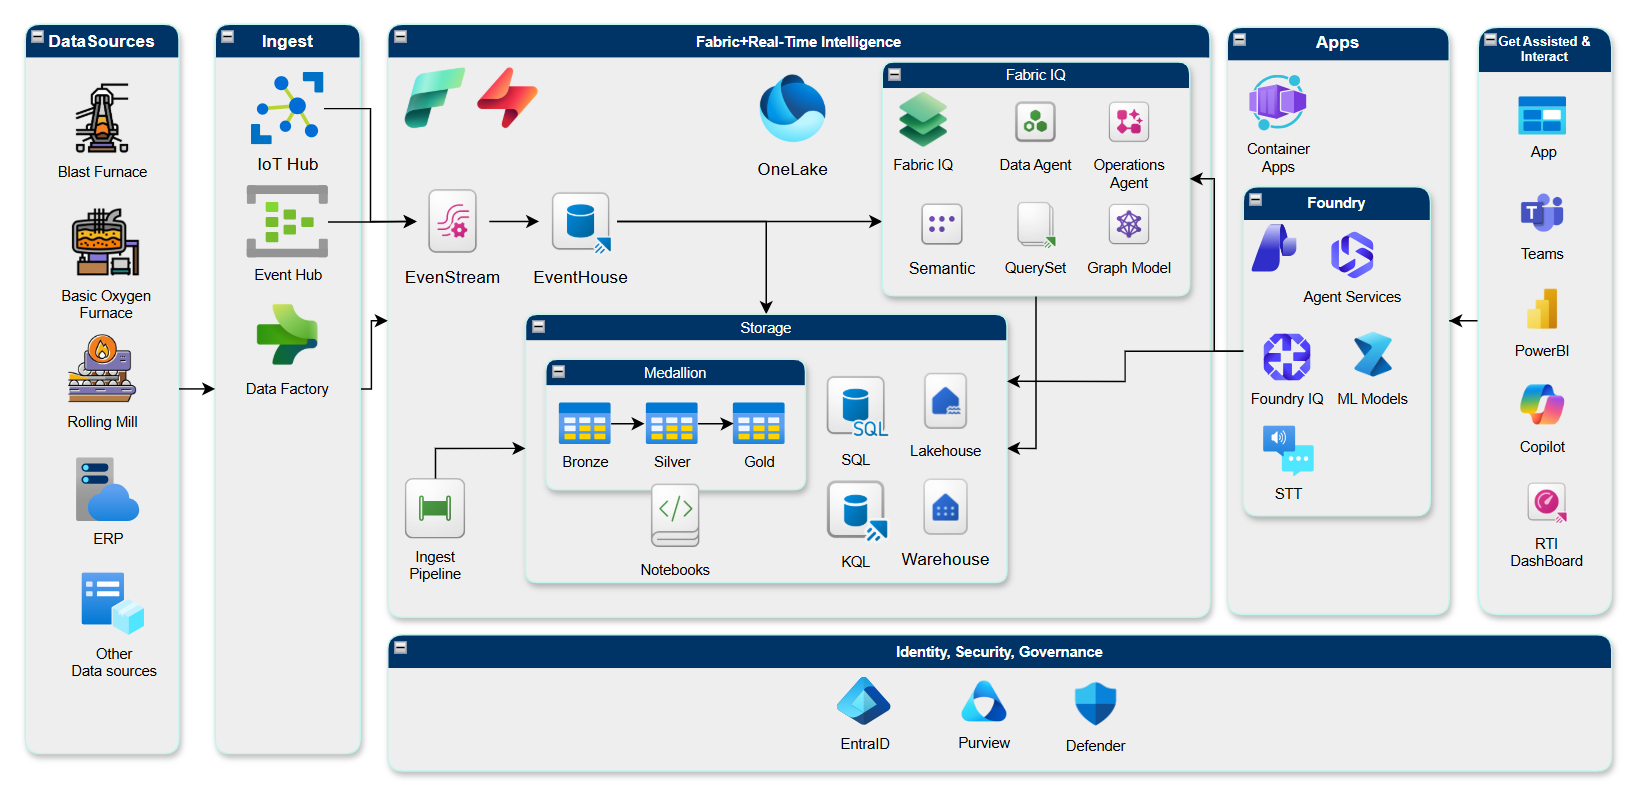
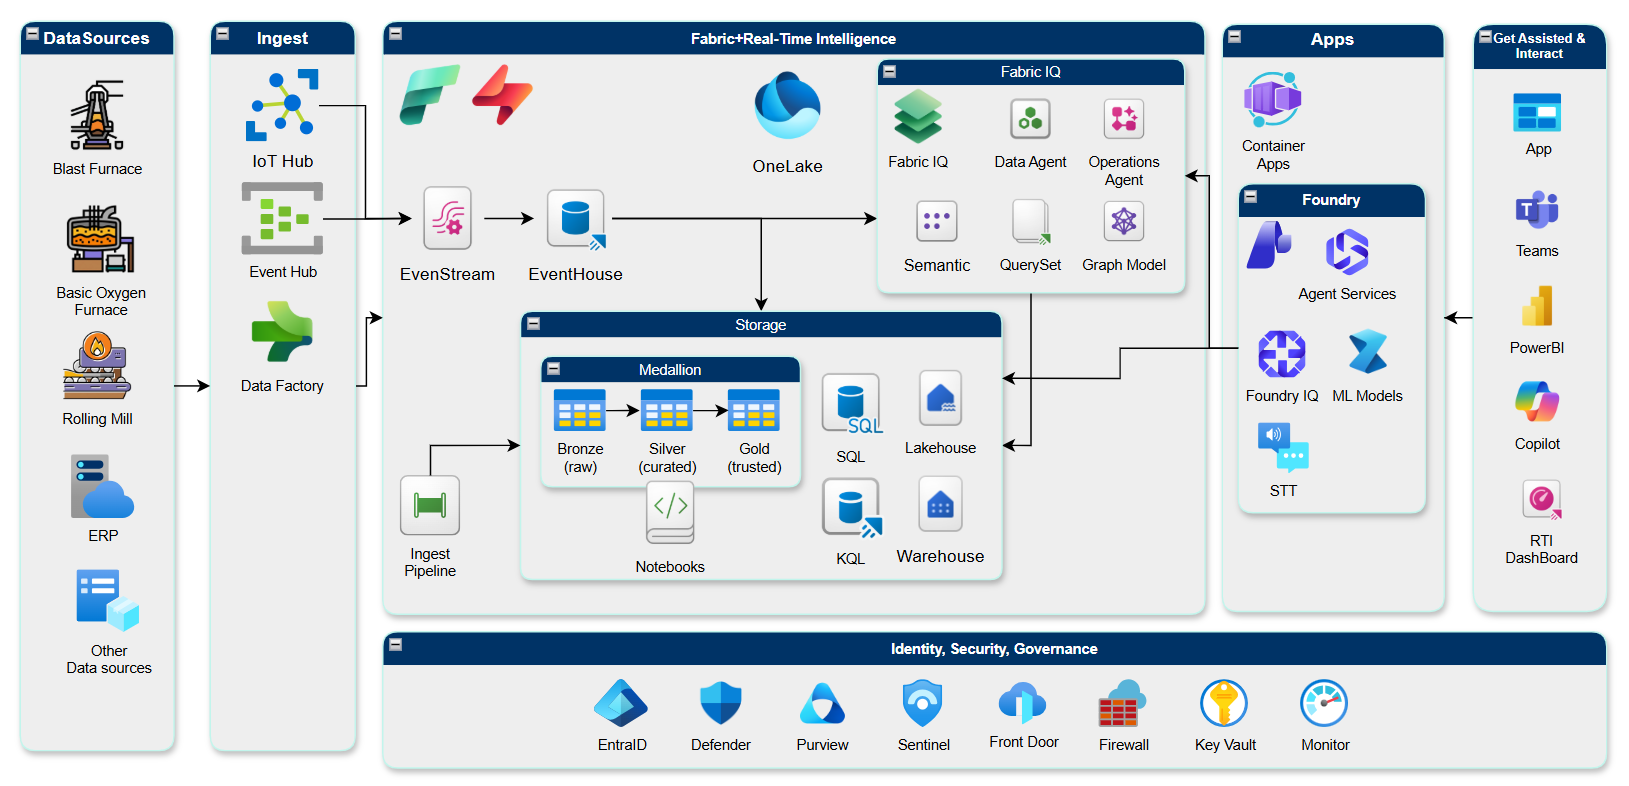
docs(presentation): refresh the NovaSteel Architecture diagram
The updated artwork qualifies the medallion tiers as bronze (raw), silver
(curated) and gold (trusted), and widens the identity, security and
governance lane from three services to eight.

- update assets/diagrams/NovaSteel Architecture.png
- extend the slide 15 speaker note to name the tiers and the full
  governance layer, unchanged 0:25 budget

Copilot-Session: 9e42832f-df05-47c2-9aad-b62ccfd4e3eb

diff --git a/docs/presentation/slides.md b/docs/presentation/slides.md
@@ -389,7 +389,7 @@ At the top, Python services do the math and read Fabric read-only, and Foundry a
 
 ![NovaSteel architecture](images/novasteel-architecture.png)
 
-<!-- ⏱ 0:25 · Here is the same platform as one picture: sources on the left, ingestion through IoT Hub, Event Hubs and Data Factory, then Fabric with Real-Time Intelligence and the medallion lakehouse at the centre, Foundry and the apps on the right, and identity, security and governance underneath all of it. -->
+<!-- ⏱ 0:25 · Here is the same platform as one picture: sources on the left, ingestion through IoT Hub, Event Hubs and Data Factory, then Fabric with Real-Time Intelligence at the centre — raw bronze, curated silver, trusted gold — Foundry and the apps on the right, and one identity, security and governance layer beneath all of it: Entra ID, Defender, Purview, Sentinel, Front Door, Firewall, Key Vault and Monitor. -->
 
 ---
 
